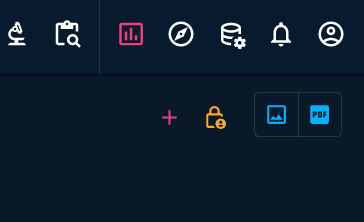
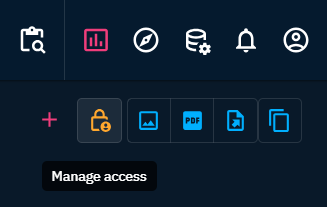
[docs] Export, import and duplicate custom dashboards and widgets configuration (#76)

diff --git a/docs/usage/dashboards.md b/docs/usage/dashboards.md
@@ -7,7 +7,7 @@
 - `edit` read and write
 - `view` read-only
 
-When a user creates a custom dashboard, it is only visible to themselves. They then have `admin` access. They can then define who can access it and with what level of rights via the `Manage access` button at the top right of the dashboard page.
+When a user creates a custom dashboard, it is only visible to themselves and becomes the admin of it. They can then define who can access it and with what level of rights via the `Manage access` button at the top right of the dashboard page.
 
 
 ![manage-access-button](assets/manage-access-button.png)  
@@ -19,3 +19,122 @@ They can give access to organizations, groups, users, but also to all users on t
 *Manage access window*
 
 It is important to note that a dashboard must have at least one user with `admin` access level.
+
+## Exporting dashboards configuration
+
+Users can export a dashboard from:
+- custom dashboards list
+- dashboard view
+
+Your configuration will be saved as a JSON file.
+
+Its title will be formatted like this:  `<date: year month day>_octi_dashboard_<dashboard title>`
+
+### Attributes of an export
+Here is the expected configuration file content:
+
+```JSON
+{
+  "openCTI_version": "5.12.0",
+  "type": "dashboard",
+  "configuration": {
+    "manifest": "eyJ3aWRn(...)bmZpZyI6e319",
+    "name": "Hello Dashboard From Import"
+  }
+}
+```
+
+When exporting a dashboard / widget configuration, all filters will be exported as are.
+Instance filters are based on your platform entities (internal ids).
+This means that after importing a configuration from another user's platform, you will have to manually edit the filters.
+
+Our team is currently working to manage instance filters.
+
+#### Access
+
+The user importing the dashboard becomes the only one that has access to it. Then, access can be managed as usual.
+On widget configuration import, the dashboard access management is unchanged from prior this import.
+
+### Exporting from custom dashboards list
+
+Click the burger menu button at the end of the dashboard line.
+Select `Export` and save your dashboard configuration.
+
+![export-json-option](assets/export-json-option.png)  
+*Export to JSON option*
+
+### Exporting from dashboard view
+
+The button with the file and the upward right arrow allows the users to export the current dashboard configuration.
+
+![export-json-button](assets/export-json-button.png)  
+*Export to JSON button*
+
+## Importing configurations
+
+Note that only JSON files with the required properties will be accepted:
+- `openCTI_version` with `5.12.0` version and more
+- `type`, here `dashboard` will be the only valid type
+- `configuration`
+
+This applies to both dashboards and widgets configurations. 
+
+## Importing dashboards configuration
+
+Users can import a dashboard from:
+- custom dashboards list
+- dashboard view
+
+### Importing from custom dashboards list
+
+Hover the `Add` button (+) in the right bottom corner. 
+Click on the `Import dashboard` button (cloud with an upward arrow).
+Select your file.
+
+![import-dashboard-option](assets/import-dashboard-option.png)  
+*Import dashboard option*
+
+The user is redirected to the imported dashboard view.
+
+## Duplicating from dashboard view
+
+The button with two files allows the users to duplicate the current dashboard configuration.
+On duplication success, a message is displayed for a short amount of time to confirm it. And, a link allows the user to navigate to the imported dashboard view.
+
+![duplicate-dashboard-button](assets/duplicate-dashboard-button.png)  
+*Duplicate dashboard button*
+
+You can select the `Duplicate` option in the burger menu next to the dashboard title.
+
+![duplicate-dashboard-option](assets/duplicate-dashboard-option.png)  
+*Duplicate dashboard option*
+
+![duplicate-dashboard-success-message](assets/duplicate-dashboard-success-message.png)  
+*Duplicate dashboard message confirmation*
+
+The new dashboard can be found in the dashboards list.
+
+## Exporting widgets configuration
+
+Users can export a widget from the dashboard view.
+Click on the burger menu in the top right corner of the widget. Select the `Export JSON` option and save your widget configuration.
+
+![export-widget-json-option](assets/export-widget-json-option.png)  
+*Export JSON option for widgets*
+
+## Importing widgets configuration
+
+Users can import a widget from the dashboard view.
+Click on the burger menu in the top right corner of the widget. Select the `Export JSON` option and save your widget configuration.
+
+Hover the `Add` button (+) in the right bottom corner.
+Click on the `Import dashboard` button (cloud with an upward arrow).
+Select your file.
+
+![import-widget-option](assets/import-widget-option.png)  
+*Import JSON option for widgets*
+
+Due to the imported widget dimensions, you may have to manually place it.
+This way, pre-existing widgets will get back to their position.
+![import-widget-success](assets/import-widget-success.png)  
+*Imported widget*
